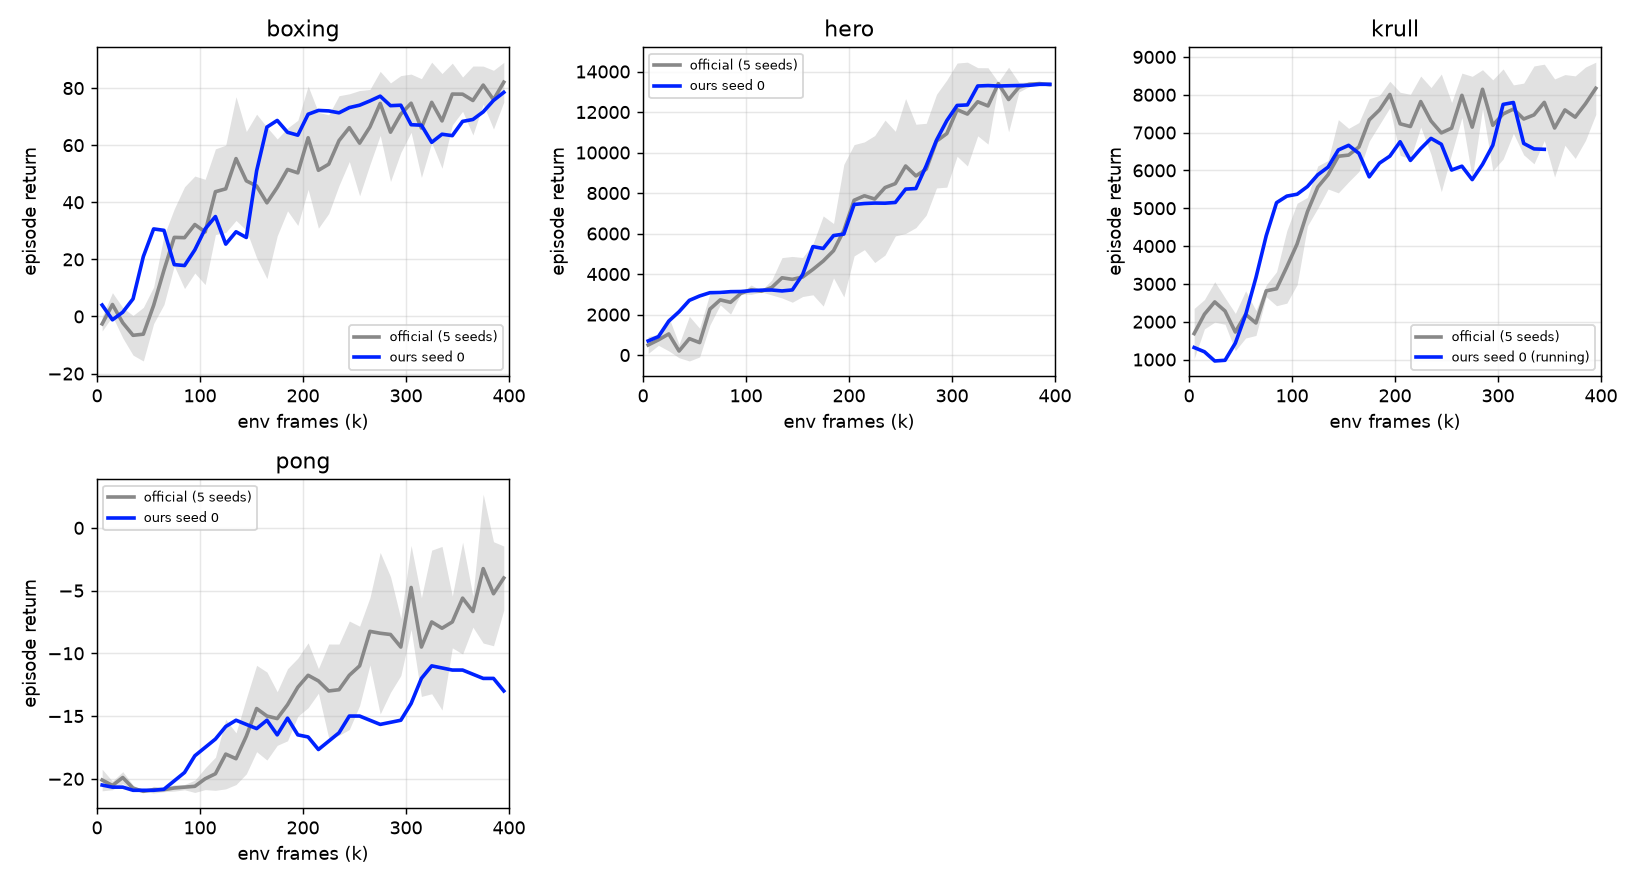
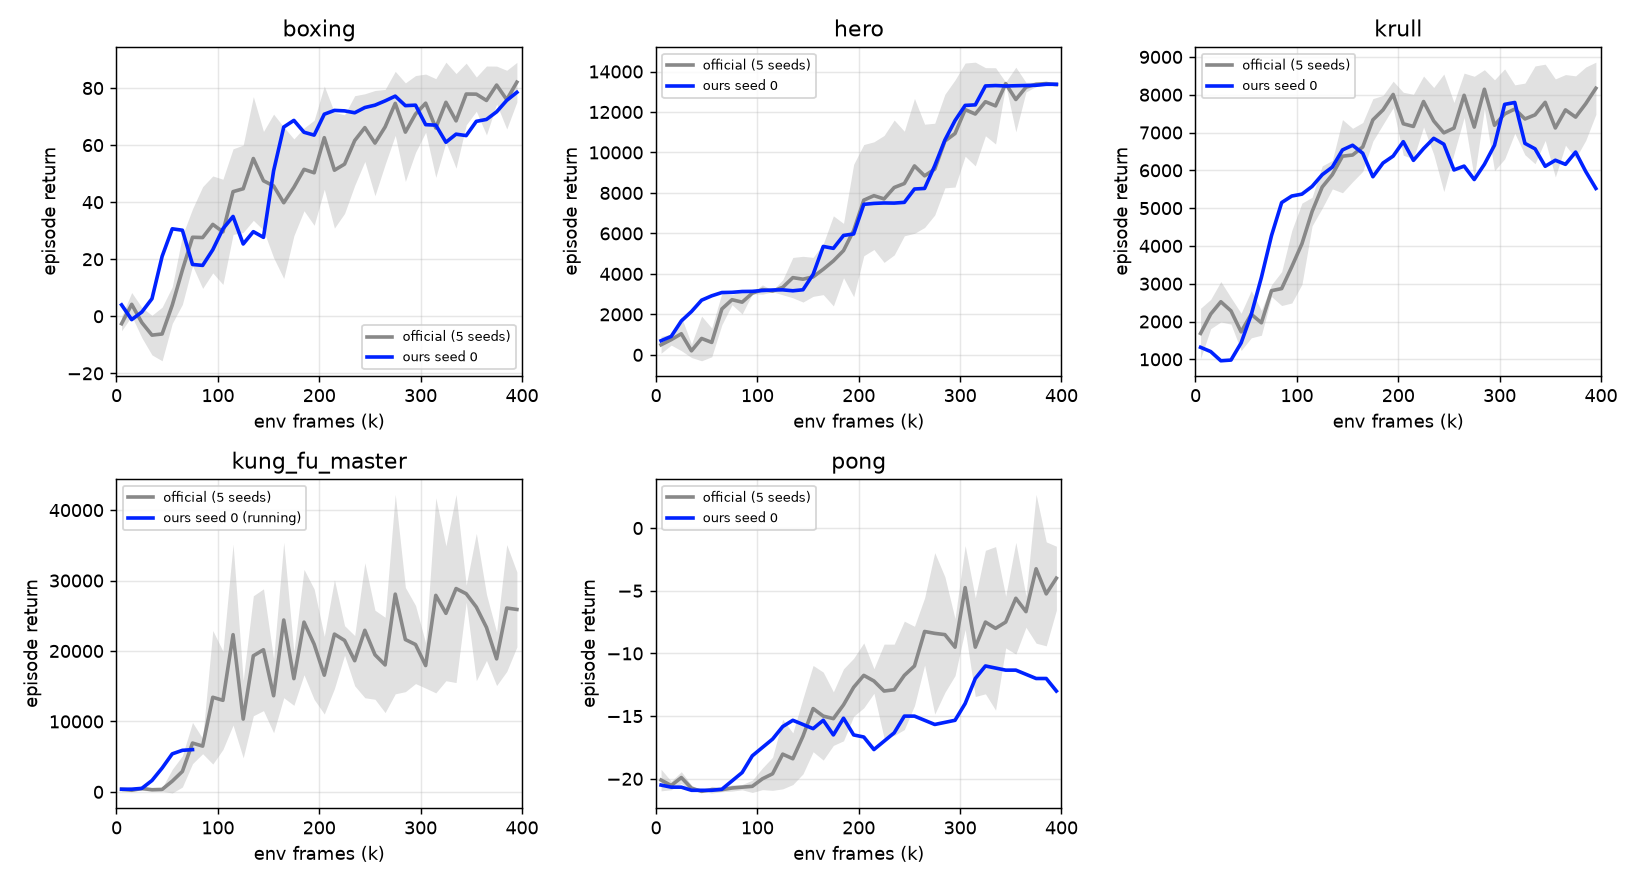
Krull seed 0 finished

diff --git a/docs/index.md b/docs/index.md
@@ -5,7 +5,7 @@ title: DreamerV3 Reproduction (Week 1)
 
 # DreamerV3 Reproduction — Week 1 (Reproduce)
 
-_Last updated: 2026-11-23 10:16 KST · runs: 4 (finished 3, reproduced 0/4 games)_
+_Last updated: 2026-11-23 10:45 KST · runs: 5 (finished 4, reproduced 0/5 games)_
 
 **Paper:** Hafner et al., *Mastering Diverse Domains through World Models* (DreamerV3), [arXiv 2301.04104](https://arxiv.org/abs/2301.04104), Nature 2025.
 **Code:** [danijar/dreamerv3](https://github.com/danijar/dreamerv3) at commit `e01491f` (Oct 2026), unmodified.
@@ -72,7 +72,8 @@ seed range `[min, max]` widened by one std.
 |---|---|---|---|---|---|---|---|
 | boxing | 1/3 | 78.8 ± 0.0 | 82 | 79.4 (70.2–85.0) | 656.9% / 683.3% | 88% | **reproduced (partial 1/3)** |
 | hero | 1/3 | 13372.8 ± 0.0 | 13354 | 13344.3 (13190.7–13465.0) | 41.4% / 41.4% | 90% | **reproduced (partial 1/3)** |
-| krull | 0/3 | – | 8171 | 7683.5 (7365.0–8154.3) | – / 615.4% | – | **running** |
+| krull | 1/3 | 6143.3 ± 0.0 | 8171 | 7683.5 (7365.0–8154.3) | 425.6% / 615.4% | 70% | **below official range (partial 1/3)** |
+| kung_fu_master | 0/3 | – | 25900 | 23301.7 (18766.7–29533.3) | – / 114.1% | – | **running** |
 | pong | 1/3 | -12.0 ± 0.0 | -4 | -4.2 (-9.2–-1.3) | 25.0% / 47.2% | 74% | **below official range (partial 1/3)** |
 
 #### Per seed
@@ -81,7 +82,8 @@ seed range `[min, max]` widened by one std.
 |---|---|---|---|---|---|---|
 | boxing | 0 | 100% | 78.8 | 79.4 ± 5.7 (70.2–85.0) | 88% | **reproduced** |
 | hero | 0 | 100% | 13372.8 | 13344.3 ± 96.5 (13190.7–13465.0) | 90% | **reproduced** |
-| krull | 0 | 87% | – | 7683.5 ± 356.4 (7365.0–8154.3) | 69% | **running** |
+| krull | 0 | 100% | 6143.3 | 7683.5 ± 356.4 (7365.0–8154.3) | 70% | **below official range** |
+| kung_fu_master | 0 | 19% | – | 23301.7 ± 4398.5 (18766.7–29533.3) | 75% | **running** |
 | pong | 0 | 100% | -12.0 | -4.2 ± 2.7 (-9.2–-1.3) | 74% | **below official range** |
 
 

diff --git a/docs/results.md b/docs/results.md
@@ -4,7 +4,8 @@
 |---|---|---|---|---|---|---|---|
 | boxing | 1/3 | 78.8 ± 0.0 | 82 | 79.4 (70.2–85.0) | 656.9% / 683.3% | 88% | **reproduced (partial 1/3)** |
 | hero | 1/3 | 13372.8 ± 0.0 | 13354 | 13344.3 (13190.7–13465.0) | 41.4% / 41.4% | 90% | **reproduced (partial 1/3)** |
-| krull | 0/3 | – | 8171 | 7683.5 (7365.0–8154.3) | – / 615.4% | – | **running** |
+| krull | 1/3 | 6143.3 ± 0.0 | 8171 | 7683.5 (7365.0–8154.3) | 425.6% / 615.4% | 70% | **below official range (partial 1/3)** |
+| kung_fu_master | 0/3 | – | 25900 | 23301.7 (18766.7–29533.3) | – / 114.1% | – | **running** |
 | pong | 1/3 | -12.0 ± 0.0 | -4 | -4.2 (-9.2–-1.3) | 25.0% / 47.2% | 74% | **below official range (partial 1/3)** |
 
 #### Per seed
@@ -13,5 +14,6 @@
 |---|---|---|---|---|---|---|
 | boxing | 0 | 100% | 78.8 | 79.4 ± 5.7 (70.2–85.0) | 88% | **reproduced** |
 | hero | 0 | 100% | 13372.8 | 13344.3 ± 96.5 (13190.7–13465.0) | 90% | **reproduced** |
-| krull | 0 | 87% | – | 7683.5 ± 356.4 (7365.0–8154.3) | 69% | **running** |
+| krull | 0 | 100% | 6143.3 | 7683.5 ± 356.4 (7365.0–8154.3) | 70% | **below official range** |
+| kung_fu_master | 0 | 19% | – | 23301.7 ± 4398.5 (18766.7–29533.3) | 75% | **running** |
 | pong | 0 | 100% | -12.0 | -4.2 ± 2.7 (-9.2–-1.3) | 74% | **below official range** |
